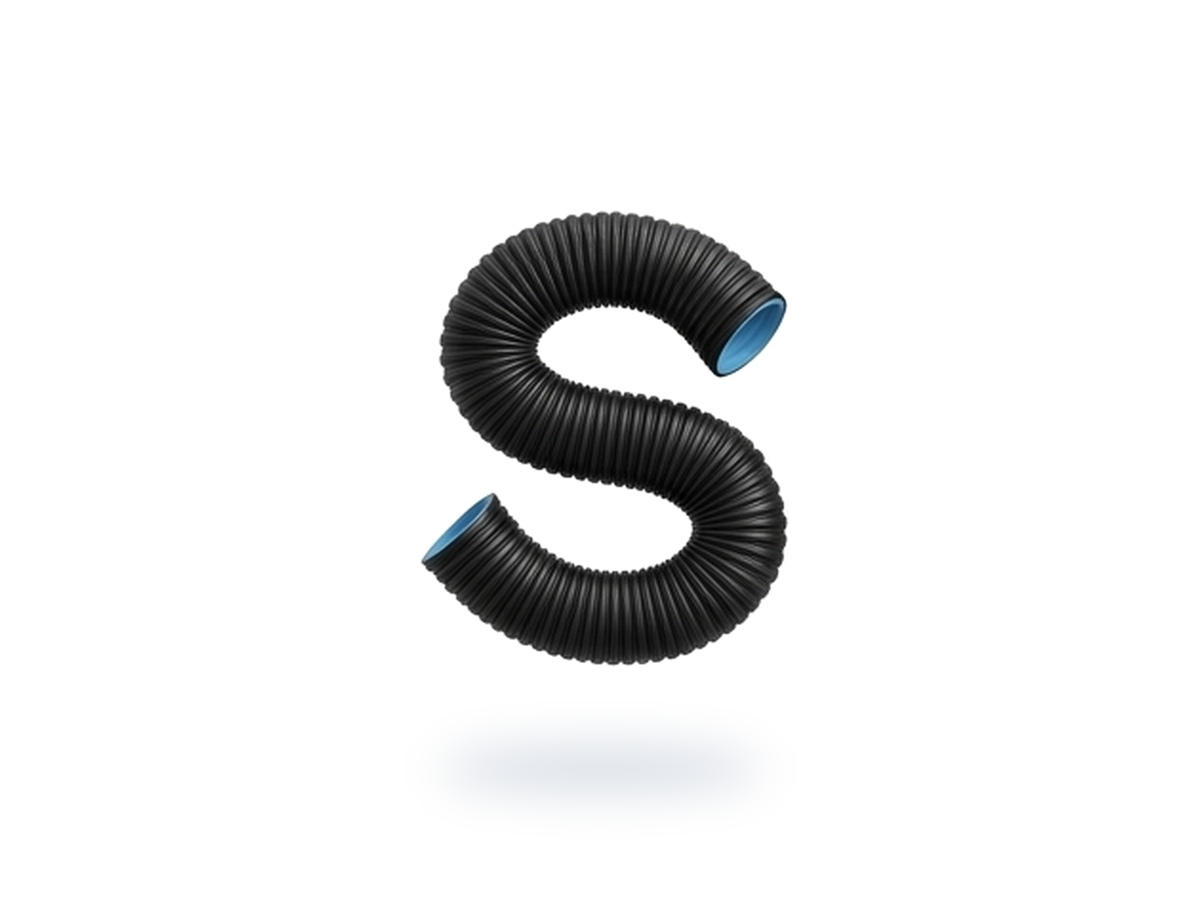
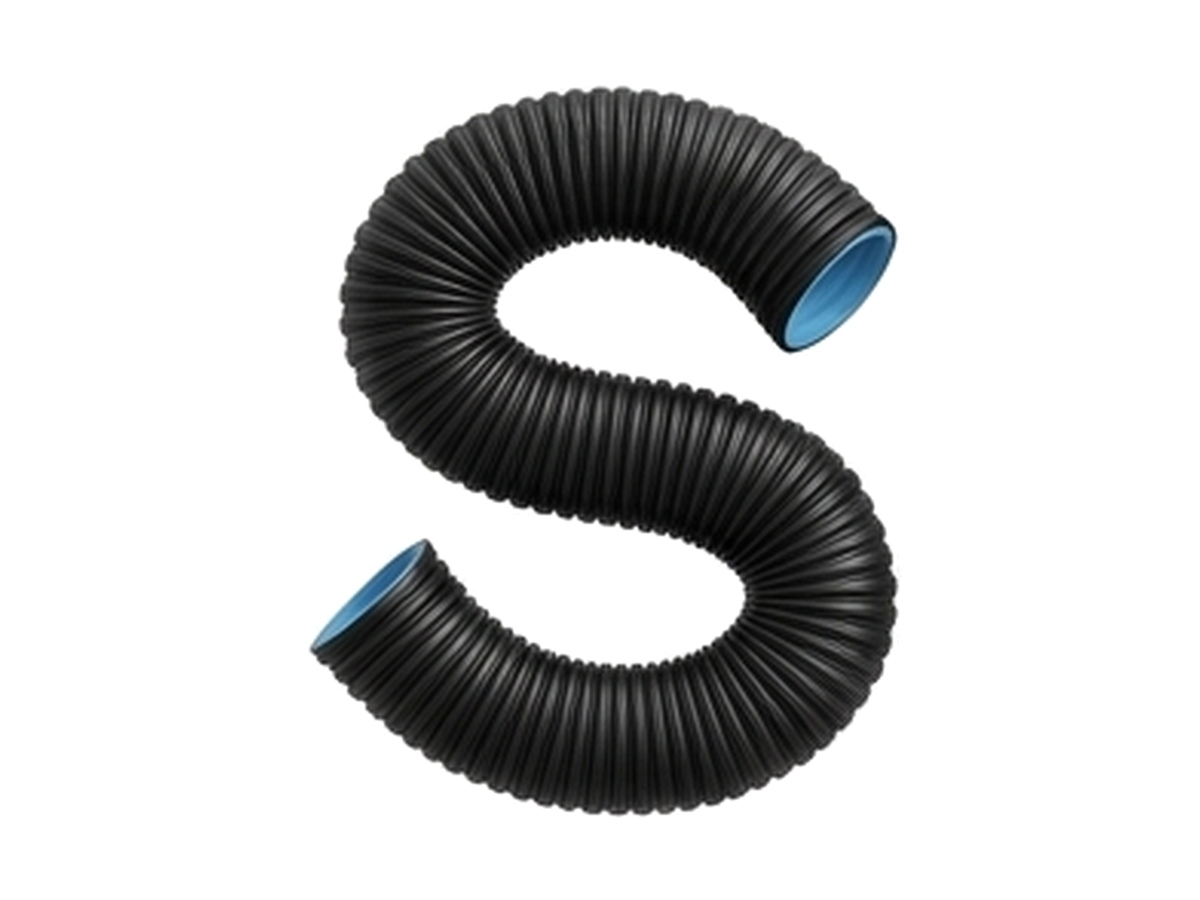
Align КАТАЛОГ heading with pipe dividers, remove downward shadow line, unify spacing, and enlarge S-pipe and Tee fitting cards

Changed region(s): [[0.2467, 0.0933, 0.7708, 0.9333]]

diff --git a/styles.css b/styles.css
@@ -388,7 +388,7 @@ button, input, select, textarea {
    1. Centered Hero Monument: SUMMUS Pipe Logo & Factory Subtitle
    ========================================================================== */
 .hero-monument {
-  padding: 28px 0 34px;
+  padding: 28px 0 0;
   text-align: center;
   background: linear-gradient(180deg, #FFFFFF 0%, #F9FAFC 100%);
 }
@@ -420,27 +420,27 @@ button, input, select, textarea {
 }
 
 /* ==========================================================================
-   3D Physical Corrugated Pipe Horizontal Dividers (From Client Mockup)
+   3D Physical Corrugated Pipe Horizontal Dividers (Uniform 48px Vertical Spacing)
    ========================================================================== */
 .pipe-divider-full {
   width: 100%;
-  height: 56px;
+  height: 44px;
   background-image: url('./assets/pipe-divider-tile.png');
   background-repeat: repeat-x;
   background-position: center center;
-  background-size: auto 56px;
-  margin: 6px 0 38px;
+  background-size: auto 44px;
+  margin: 48px 0;
   will-change: background-position;
-  transition: filter 0.3s ease;
 }
 
-/* Split Pipe Divider with Centered Heading ("Каталог") */
+/* Split Pipe Divider with Centered Uppercase Heading ("КАТАЛОГ") */
 .pipe-divider-split {
   display: flex;
   align-items: center;
   justify-content: center;
   width: 100%;
-  margin: 56px 0 38px;
+  height: 44px;
+  margin: 48px 0;
   gap: 0;
 }
 
@@ -448,16 +448,16 @@ button, input, select, textarea {
   flex: 1;
   display: flex;
   align-items: center;
-  height: 56px;
+  height: 44px;
   min-width: 60px;
 }
 
 .pipe-arm-body {
   flex: 1;
-  height: 56px;
+  height: 44px;
   background-image: url('./assets/pipe-divider-tile.png');
   background-repeat: repeat-x;
-  background-size: auto 56px;
+  background-size: auto 44px;
 }
 
 .pipe-arm-left .pipe-arm-body {
@@ -469,8 +469,8 @@ button, input, select, textarea {
 }
 
 .pipe-arm-cap {
-  width: 65px;
-  height: 56px;
+  width: 72px;
+  height: 44px;
   object-fit: fill;
   flex-shrink: 0;
 }
@@ -484,20 +484,26 @@ button, input, select, textarea {
 }
 
 .split-heading {
+  display: inline-flex;
+  align-items: center;
+  justify-content: center;
+  height: 44px;
   padding: 0 32px;
-  font-size: clamp(24px, 3vw, 34px);
+  font-size: 40px;
+  line-height: 1;
   font-weight: 800;
-  letter-spacing: -0.02em;
+  letter-spacing: 0.04em;
+  text-transform: uppercase;
   color: var(--ink-black);
   white-space: nowrap;
-  transform: translateY(-3px);
+  margin: 0;
 }
 
 /* ==========================================================================
    2. Section: «Ключевые Преимущества и Услуги» (3x2 Realistic Studio Cards)
    ========================================================================== */
 .advantages-section {
-  padding-top: 12px;
+  padding: 0;
 }
 
 .section-heading-center {
@@ -696,11 +702,11 @@ button, input, select, textarea {
    Unified Catalog Cards Grid (Every Pipe Diameter & Fitting as a Card)
    ========================================================================== */
 .catalog-section {
-  padding-bottom: 56px;
+  padding: 0;
 }
 
 .catalog-cards-block {
-  padding-top: 8px;
+  padding-top: 0;
 }
 
 .spec-toolbar {
@@ -1718,7 +1724,7 @@ button, input, select, textarea {
    4. Section: «Сертификаты Соответствия»
    ========================================================================== */
 .certificates-section {
-  padding: 12px 0 54px;
+  padding: 0;
 }
 
 .certs-grid {
@@ -1875,7 +1881,7 @@ button, input, select, textarea {
    5. Branded Studio Footer with Contacts, Application Form & Logo
    ========================================================================== */
 .studio-footer {
-  padding: 24px 0 118px;
+  padding: 0 0 118px;
   background: linear-gradient(180deg, var(--bg-page) 0%, #EFF3F8 100%);
 }
 
@@ -2198,7 +2204,7 @@ button, input, select, textarea {
 
   /* Hero Section on Mobile */
   .hero-monument {
-    padding: 18px 0 22px;
+    padding: 18px 0 0;
   }
 
   .hero-logo-stage {
@@ -2212,33 +2218,36 @@ button, input, select, textarea {
     padding: 0 8px;
   }
 
-  /* 3D Pipe Dividers on Mobile */
+  /* 3D Pipe Dividers on Mobile (Uniform 32px Vertical Spacing) */
   .pipe-divider-full {
-    height: 36px;
-    background-size: auto 36px;
-    margin: 4px 0 26px;
+    height: 32px;
+    background-size: auto 32px;
+    margin: 32px 0;
   }
 
   .pipe-divider-split {
-    margin: 24px 0 22px;
+    height: 32px;
+    margin: 32px 0;
   }
 
   .pipe-arm,
   .pipe-arm-body,
   .pipe-arm-cap {
-    height: 36px;
-    background-size: auto 36px;
+    height: 32px;
+    background-size: auto 32px;
     min-width: 32px;
   }
 
   .pipe-arm-cap {
-    width: 42px;
+    width: 52px;
   }
 
   .split-heading {
+    height: 32px;
     padding: 0 14px;
-    font-size: 21px;
-    transform: translateY(-2px);
+    font-size: 28px;
+    line-height: 1;
+    transform: none;
   }
 
   .section-heading-center {

diff --git a/index.html b/index.html
@@ -131,7 +131,7 @@
         <img src="./assets/pipe-cap-right.png" alt="" class="pipe-arm-cap" />
       </div>
 
-      <h2 class="split-heading">Каталог</h2>
+      <h2 class="split-heading">КАТАЛОГ</h2>
 
       <div class="pipe-arm pipe-arm-right" aria-hidden="true">
         <img src="./assets/pipe-cap-left.png" alt="" class="pipe-arm-cap" />
